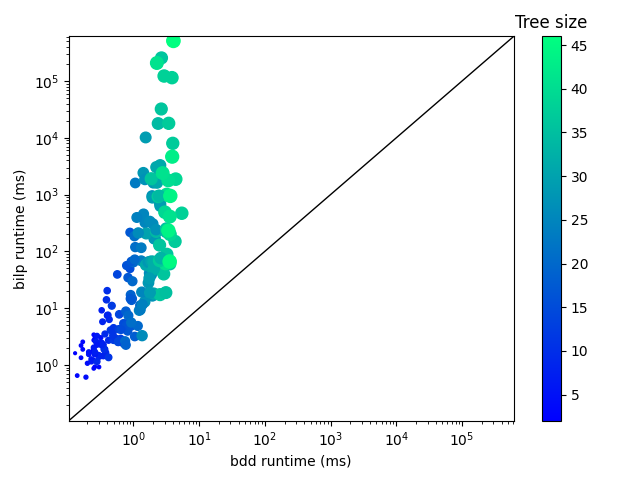
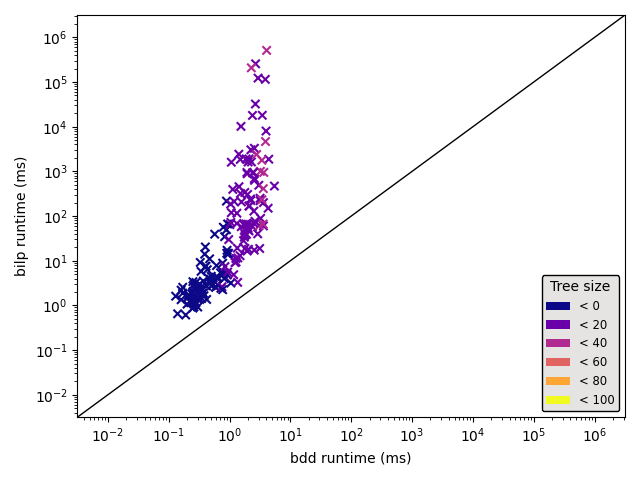
same colours and axes range between the scatter plots

diff --git a/plot_scatter.py b/plot_scatter.py
@@ -1,49 +1,73 @@
 from pathlib import Path
+from matplotlib import patches
+import matplotlib.colors as mcolors
 import matplotlib.pyplot as plt
 import numpy
+from mpl_toolkits.axes_grid1 import make_axes_locatable
 
 from utils.util import read_results_from_csv
+
+
+def size_to_color(n):
+    return n // 20
 
 
 def plot_results(x_labels, x, y, output):
     plt.yscale("log")
     plt.xscale("log")
 
-    axis_upper_limit = max(x + y)
-    axis_lower_limit = min(x + y)
+    # First 5 colors of the `plasma` colormap
+    color_mapping = {
+        0: [0.050383, 0.029803, 0.527975, 1.0],
+        1: [4.17642e-01, 5.64000e-04, 6.58390e-01, 1.00000e00],
+        2: [0.69284, 0.165141, 0.564522, 1.0],
+        3: [0.881443, 0.392529, 0.383229, 1.0],
+        4: [0.98826, 0.652325, 0.211364, 1.0],
+        5: [0.940015, 0.975158, 0.131326, 1.0],
+    }
 
-    colors = [int(l.partition("(")[0]) for l in x_labels]
-    sizes = [c * 2 for c in colors]
+    # Apply colors based on size categories
+    colors = [color_mapping[size_to_color(int(l.partition("(")[0]))] for l in x_labels]
 
-    # Add some padding
-    axis_lower_limit = axis_lower_limit * 0.8
-    axis_upper_limit = axis_upper_limit * 1.2
+    lower_limit = 10**-2.5
+    upper_limit = 10**6.5
 
-    plt.xlim(axis_lower_limit, axis_upper_limit)
-    plt.ylim(axis_lower_limit, axis_upper_limit)
+    plt.xlim(lower_limit, upper_limit)
+    plt.ylim(lower_limit, upper_limit)
 
-    plt.xlabel("bdd runtime (ms)")
-    plt.ylabel("dummiest runtime (ms)")
-    plt.scatter(x, y, c=colors, s=sizes, cmap="winter")
+    plt.xlabel(f"{output.split('_')[1]} runtime (ms)")
+    plt.ylabel(f"{output.split('_')[2]} runtime (ms)")
 
-    diagonal_x = numpy.linspace(axis_lower_limit, axis_upper_limit, 100)
+    plt.scatter(x, y, c=colors, marker="x")
+
+    diagonal_x = numpy.linspace(lower_limit, upper_limit, 100)
     diagonal_y = diagonal_x
 
     plt.plot(diagonal_x, diagonal_y, color="black", linewidth=1)
 
-    # mymodel = numpy.poly1d(numpy.polyfit(x, y, 2))
-    # myline = numpy.linspace(min(x + y), max(x + y), 500)
-    # plt.plot(myline, mymodel(myline), color="red")
+    legend_elements = [
+        patches.Patch(facecolor=color_mapping[i], label=f"< {i * 20}")
+        for i in range(len(color_mapping))
+    ]
+    legend = plt.legend(
+        handles=legend_elements,
+        fontsize="small",
+        loc="lower right",
+        title="Tree size",
+        fancybox=True,
+    )
 
-    clb = plt.colorbar()
-    clb.ax.set_title("Tree size")
+    frame = legend.get_frame()  # sets up for color, edge, and transparency
+    frame.set_facecolor("#E5E4E2")  # color of legend
+    frame.set_edgecolor("black")  # edge color of legend
+    frame.set_alpha(1)  # deals with transparency
 
     plt.tight_layout()
     plt.savefig(f"{output}.png")
 
 
 if __name__ == "__main__":
-    filename = "./benchmarking/algorithm_bdd_dummy.csv"
+    filename = "./benchmarking/algorithm_bdd_bu.csv"
     output = Path(filename).stem
     output = (
         "plot_" + output[output.index("_") + 1 :]
